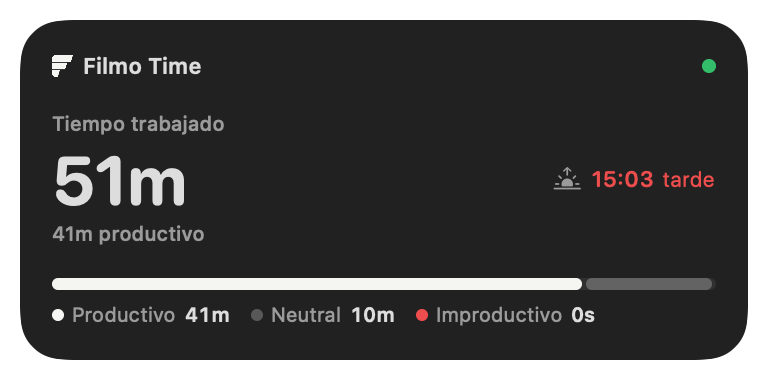
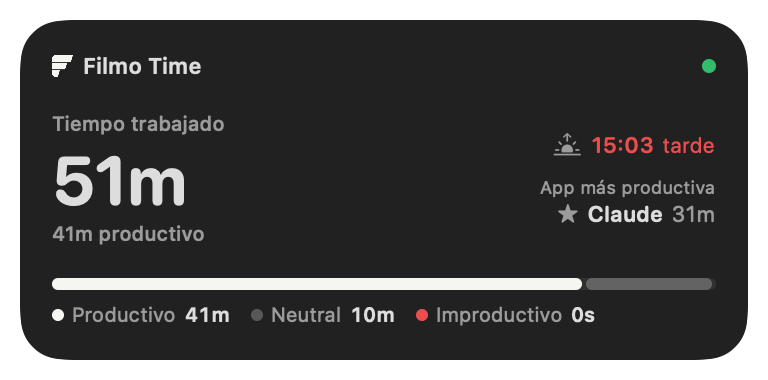
Bring back the top productive app in the medium widget

Changed region(s): [[0.6875, 0.3474, 0.9375, 0.6079]]

diff --git a/Widget/Widget.swift b/Widget/Widget.swift
@@ -210,7 +210,20 @@ struct MediumView: View {
             HStack(alignment: .center, spacing: 12) {
                 BigTime(day: day, size: 34)
                 Spacer(minLength: 0)
-                Arrival(day: day)
+                VStack(alignment: .trailing, spacing: 8) {
+                    Arrival(day: day)
+                    if let top = day.apps(.productive).first {
+                        VStack(alignment: .trailing, spacing: 1) {
+                            Text("App más productiva").font(.system(size: 9)).foregroundStyle(.secondary)
+                            HStack(spacing: 4) {
+                                Image(systemName: "star.fill").font(.system(size: 9)).foregroundStyle(.secondary)
+                                Text(top.name).fontWeight(.semibold).lineLimit(1)
+                                Text(Fmt.duration(top.seconds)).foregroundStyle(.secondary)
+                            }
+                            .font(.system(size: 11, design: .rounded))
+                        }
+                    }
+                }
             }
             Spacer(minLength: 8)
             WorkBreakdown(day: day)
